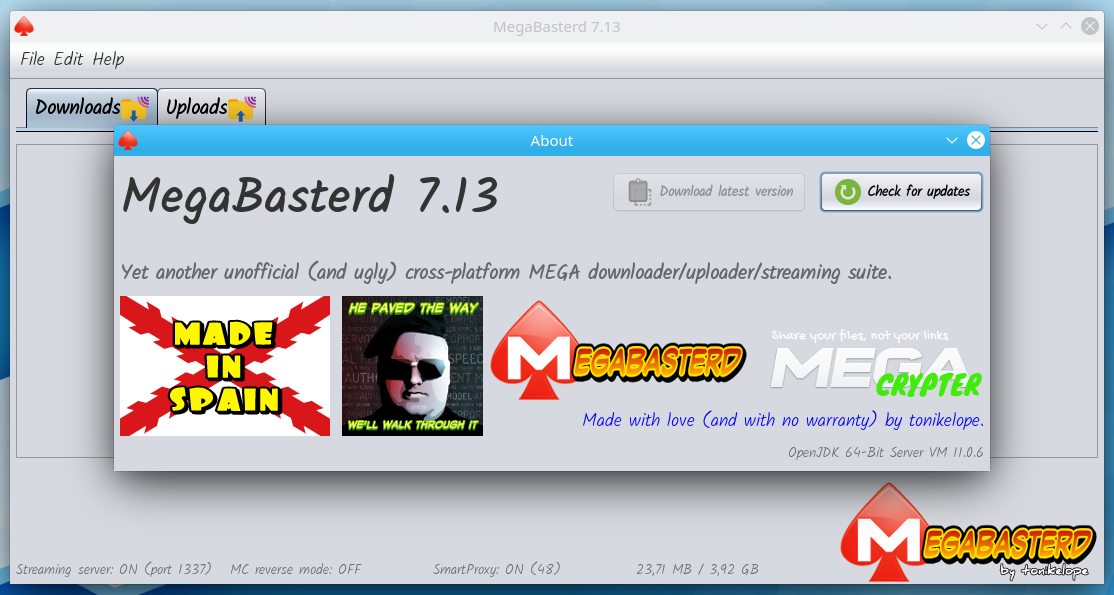
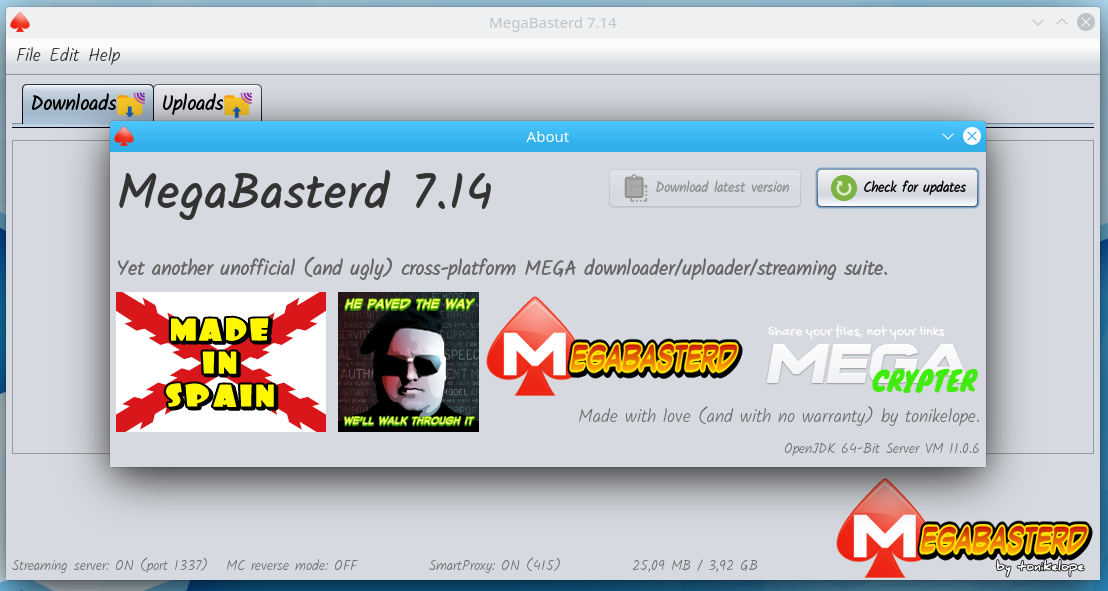
7.14
-Unfreeze all button bug fix
-MALFORMED ATTRIBUTES WINDOWS FIX

(cherry picked from commit c418d95bb12b41952cc4ae4a5253ecbde978d3b2)

diff --git a/src/main/java/com/tonikelope/megabasterd/FolderLinkDialog.java b/src/main/java/com/tonikelope/megabasterd/FolderLinkDialog.java
@@ -3,6 +3,7 @@ package com.tonikelope.megabasterd;
 import static com.tonikelope.megabasterd.MainPanel.*;
 import static com.tonikelope.megabasterd.MiscTools.*;
 import java.awt.Dialog;
+import java.io.File;
 import java.util.ArrayList;
 import java.util.Collections;
 import java.util.Enumeration;
@@ -439,10 +440,10 @@ public class FolderLinkDialog extends javax.swing.JDialog {
 
                     for (Object p : object_path) {
 
-                        path += "/" + ((Map<String, Object>) p).get("name");
+                        path += File.separator + ((Map<String, Object>) p).get("name");
                     }
 
-                    path = path.replaceAll("^/+", "").trim();
+                    path = path.replaceAll("^/+", "").replaceAll("^\\+", "").trim();
 
                     String url = "https://mega.nz/#N!" + ((Map<String, Object>) node.getUserObject()).get("h") + "!" + ((Map<String, Object>) node.getUserObject()).get("key") + "###n=" + folder_id;
 

diff --git a/src/main/java/com/tonikelope/megabasterd/MainPanelView.java b/src/main/java/com/tonikelope/megabasterd/MainPanelView.java
@@ -271,13 +271,17 @@ public final class MainPanelView extends javax.swing.JFrame {
 
                             String file_path = f.getParentFile().getAbsolutePath().replace(base_path, "");
 
-                            String[] dirs = file_path.split("/");
+                            LOG.log(Level.INFO, "{0} FILE_PATH -> {1}", new Object[]{Thread.currentThread().getName(), file_path});
+
+                            String[] dirs = file_path.split("\\" + File.separator);
 
                             MegaDirNode current_node = file_paths;
 
                             String file_parent = current_node.getNode_id();
 
                             for (String d : dirs) {
+
+                                LOG.log(Level.INFO, "{0} DIR -> {1}", new Object[]{Thread.currentThread().getName(), d});
 
                                 if (!d.isEmpty()) {
 

diff --git a/src/main/java/com/tonikelope/megabasterd/FileGrabberDialog.java b/src/main/java/com/tonikelope/megabasterd/FileGrabberDialog.java
@@ -885,10 +885,10 @@ public class FileGrabberDialog extends javax.swing.JDialog {
 
                 for (Object p : object_path) {
 
-                    path += "/" + p;
+                    path += File.separator + p;
                 }
 
-                path = path.replaceAll("^//", "/").trim().replaceAll(" \\[[0-9,.]+ [A-Z]+\\]$", "");
+                path = path.replaceAll("^/+", "/").replaceAll("^\\+", "\\").trim().replaceAll(" \\[[0-9,.]+ [A-Z]+\\]$", "");
 
                 File file = new File(path);
 

diff --git a/src/main/java/com/tonikelope/megabasterd/MainPanel.java b/src/main/java/com/tonikelope/megabasterd/MainPanel.java
@@ -55,7 +55,7 @@ import javax.swing.UIManager;
  */
 public final class MainPanel {
 
-    public static final String VERSION = "7.13";
+    public static final String VERSION = "7.14";
     public static final boolean FORCE_SMART_PROXY = false; //TRUE FOR DEBUGING SMART PROXY
     public static final int THROTTLE_SLICE_SIZE = 16 * 1024;
     public static final int DEFAULT_BYTE_BUFFER_SIZE = 16 * 1024;

diff --git a/src/main/java/com/tonikelope/megabasterd/TransferenceManager.java b/src/main/java/com/tonikelope/megabasterd/TransferenceManager.java
@@ -687,6 +687,11 @@ abstract public class TransferenceManager implements Runnable, SecureSingleThrea
 
                 setPreprocessing_transferences(true);
 
+                if (isPaused_all()) {
+
+                    _paused_all = false;
+                }
+
                 THREAD_POOL.execute(() -> {
 
                     Thread.currentThread().setPriority(Thread.MIN_PRIORITY);
